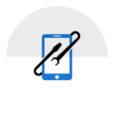
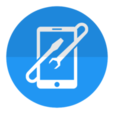
deploy: a45e5343dbf6bb0260da2d704c03b588bb0d303d

diff --git a/flutter_service_worker.js b/flutter_service_worker.js
@@ -11,8 +11,8 @@ const RESOURCES = {
 "splash/img/dark-3x.png": "4c2fd0242ccb0b9fdd7d2bd4edaecd29",
 "splash/img/light-3x.png": "694189211dcd53d85157e414c36682c0",
 "splash/img/light-2x.png": "780eff04c8e2ebbfbac3e71d4ea2d81d",
-"favicon.ico": "aa4d480050b09d630e33529deba9d669",
-"favicon.png": "e7ace198e3bb8efd207385e08a88ce21",
+"favicon.ico": "9523f22f61727ac153194973169c2ec2",
+"favicon.png": "2c1df7703bdc1760fd5d8f22b9ffc74b",
 "assets/fonts/MaterialIcons-Regular.otf": "4e6447691c9509f7acdbf8a931a85ca1",
 "assets/NOTICES": "4ac729d8ab2dfd05e6d2e6930a997566",
 "assets/assets/images/logo_web_dark.jpg": "dc20063d21ddf06ba118495542a2b16d",
@@ -56,37 +56,37 @@ const RESOURCES = {
 "assets/packages/flutter_vector_icons/fonts/Entypo.ttf": "744ce60078c17d86006dd0edabcd59a7",
 "assets/packages/flutter_vector_icons/fonts/Fontisto.ttf": "b49ae8ab2dbccb02c4d11caaacf09eab",
 "assets/packages/cupertino_icons/assets/CupertinoIcons.ttf": "6d342eb68f170c97609e9da345464e5e",
-"icons/apple-icon-114x114.png": "a0d22b2127ff10f49a79224ee85834ee",
-"icons/apple-icon-120x120.png": "2e1ca2714ca04bb61641785cb359d5d3",
+"icons/apple-icon-114x114.png": "1fe671a617924d6afd9ddd680ff60ed1",
+"icons/apple-icon-120x120.png": "cf0cf3334fb782ada82ab63969ede2df",
 "icons/favicon.ico": "3e0659e9410a8399c4df6f577090a795",
-"icons/apple-icon-180x180.png": "a69fd0bbf917177c8e3eb12bf004c2bd",
-"icons/favicon-96x96.png": "5ceb71133946a7b13d155b957e07e48d",
-"icons/apple-icon-57x57.png": "d1701b1e12e5423f0e58003f24efbf4b",
-"icons/android-icon-192x192.png": "3fee7d606cc00c3061b8164deb275446",
-"icons/ms-icon-144x144.png": "994dddc62e337c78990004578a8ba6ce",
-"icons/apple-icon-152x152.png": "858d4fb2d39570f1147819a1aedda932",
-"icons/apple-icon-precomposed.png": "83359159aeaeb5197027bfb2b0ce5d0f",
-"icons/android-icon-48x48.png": "37e083b7932b59bee2698f4cb6b5d97b",
-"icons/android-icon-144x144.png": "994dddc62e337c78990004578a8ba6ce",
-"icons/android-icon-96x96.png": "5ceb71133946a7b13d155b957e07e48d",
-"icons/apple-icon.png": "83359159aeaeb5197027bfb2b0ce5d0f",
-"icons/apple-icon-60x60.png": "575183be1ccf9490860e9f196fb7d3c4",
-"icons/favicon-16x16.png": "e7ace198e3bb8efd207385e08a88ce21",
+"icons/apple-icon-180x180.png": "97447b55b3e5c8636907c4e68a604698",
+"icons/favicon-96x96.png": "eb5923c5c1ff92b8c7f906afd970374e",
+"icons/apple-icon-57x57.png": "fa910631d79bd74aa6390e7284b52836",
+"icons/android-icon-192x192.png": "3a54168bb098e4b0239c4632b650f4f8",
+"icons/ms-icon-144x144.png": "658805a8704457040b3ec9d468d9ae2e",
+"icons/apple-icon-152x152.png": "26710060fc75dafbb253f35a23f0c4dd",
+"icons/apple-icon-precomposed.png": "6b817d56ef7c632874b87adf86dc4a48",
+"icons/android-icon-48x48.png": "4021332ea672603998de1bf632510a38",
+"icons/android-icon-144x144.png": "1def21266cb7d2cbd49cfcdbd255ad4f",
+"icons/android-icon-96x96.png": "edd79b4fd850efbbdb48783c55731f33",
+"icons/apple-icon.png": "6b817d56ef7c632874b87adf86dc4a48",
+"icons/apple-icon-60x60.png": "1df0998cc8832078e1959df60d629a88",
+"icons/favicon-16x16.png": "2c1df7703bdc1760fd5d8f22b9ffc74b",
 "icons/manifest.json": "4a627cbd5944024f83d69c9c6322613a",
-"icons/ms-icon-150x150.png": "9f9a2becc38eed871b714904e34c1dbb",
+"icons/ms-icon-150x150.png": "082cb4a893f0334a2659ac578bca2b0a",
 "icons/browserconfig.xml": "653d077300a12f09a69caeea7a8947f8",
-"icons/apple-icon-76x76.png": "918cf1f423fa68d08d0c1e88ff161af1",
-"icons/ms-icon-310x310.png": "ebc3073eba591af0a7715866087a5dbd",
-"icons/android-icon-72x72.png": "b8a843917f117dce369194a6ad0d232f",
-"icons/apple-icon-72x72.png": "b8a843917f117dce369194a6ad0d232f",
-"icons/favicon-32x32.png": "98e4a2435fb0916f06f162713de0ed7e",
-"icons/ms-icon-70x70.png": "a8782b6f2efdfbc86a07b873dbed4edd",
-"icons/apple-icon-144x144.png": "994dddc62e337c78990004578a8ba6ce",
-"icons/android-icon-36x36.png": "06fbfd4a9330cb30bdeff39e3a00d640",
+"icons/apple-icon-76x76.png": "8fd2449db3487d45e86f44d331a060fa",
+"icons/ms-icon-310x310.png": "829626996418b74a3a849c47acbacfd8",
+"icons/android-icon-72x72.png": "3ff561dbce08acc94b2d9523fddaf50a",
+"icons/apple-icon-72x72.png": "847ef0f974607eceb4f66db7346c3499",
+"icons/favicon-32x32.png": "be1d2740c80e6dd8fa7114336750fa03",
+"icons/ms-icon-70x70.png": "7bc10c3e5c31535d0581fe32c3a7d522",
+"icons/apple-icon-144x144.png": "658805a8704457040b3ec9d468d9ae2e",
+"icons/android-icon-36x36.png": "41c667f2f1e2bd295ca0c88ad3037753",
 "main.dart.js": "6ec5c3a61a04f4d993c2c5215a53bc18",
 "manifest.json": "03fe42ff67201fb7a1db1c384c3a2f15",
-"index.html": "aa97965a2eddb7c4172ecdbf45337aac",
-"/": "aa97965a2eddb7c4172ecdbf45337aac"
+"index.html": "e614264e5fa8b6d3c0cd00209c1a9d28",
+"/": "e614264e5fa8b6d3c0cd00209c1a9d28"
 };
 
 // The application shell files that are downloaded before a service worker can

diff --git a/index.html b/index.html
@@ -80,7 +80,7 @@
   <script>
     if ('serviceWorker' in navigator) {
       window.addEventListener('flutter-first-frame', function () {
-        navigator.serviceWorker.register('flutter_service_worker.js?v=3269592613');
+        navigator.serviceWorker.register('flutter_service_worker.js?v=1613386873');
       });
     }
   </script>
